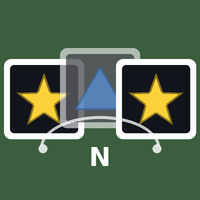
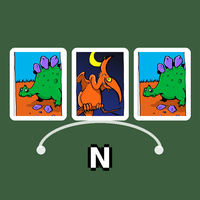
wip dino n back

diff --git a/dinoback/docs/make_thumbnail.py b/dinoback/docs/make_thumbnail.py
@@ -1,113 +1,97 @@
 #!/usr/bin/env python3
 """Generates dinoback/art/game_screen_200.png, the game-chooser tile.
 
-Draws three cards in a row — the middle one dimmed and the outer two matching — which is the
-whole game in one picture: "is this the same as the one N back". Shapes, colors and the zig-ish
-card frame mirror symbol_art.gd so the tile looks like the thing it links to.
+Three cards in a row: the OUTER TWO ARE THE SAME DINO, the middle one a different dino.
+That is the whole game in one picture — "is this the same as the card N back" — and it uses the
+real photographs from res://art/dinos, since the game is called Dino N-Back.
+
+The two dinos are chosen by index below (any 1..48); the script prints which files it used.
 
 Run from the repo root:  python3 dinoback/docs/make_thumbnail.py
 """
-from PIL import Image, ImageDraw
-import math
+from PIL import Image, ImageDraw, ImageFont
 import os
+
+HERE = os.path.dirname(os.path.abspath(__file__))
+ROOT = os.path.normpath(os.path.join(HERE, "..", ".."))
+DINOS = os.path.join(ROOT, "art", "dinos")
+
+DINO_A = 5      # the repeated card (left and right)
+DINO_B = 9      # the odd one in the middle
 
 S = 200
 SS = 4                       # supersample, then downscale, for smooth edges
 W = S * SS
 BG = (60, 93, 62)            # 0x3C5D3E, main.gd's clear color
-PLATE = (18, 20, 28)         # symbol_art.gd PLATE
-FRAME = (255, 255, 255)
+FRAME = (255, 255, 255)      # dino cards carry the WHITE frame in game; drawn cards get yellow
 
-# symbol_art.gd COLORS, most distinct first
-BLUE = (89, 158, 250)
-YELLOW = (252, 209, 56)
-RED = (240, 82, 74)
+CARD_W = int(W * 0.285)
+CARD_H = int(CARD_W * 1.28)
+CY = int(W * 0.42)
+INSET = max(2, int(CARD_W * 0.075))
 
 img = Image.new("RGB", (W, W), BG)
 d = ImageDraw.Draw(img, "RGBA")
 
 
-def ngon(cx, cy, r, sides, rot=-math.pi / 2):
-    return [(cx + math.cos(rot + 2 * math.pi * i / sides) * r,
-             cy + math.sin(rot + 2 * math.pi * i / sides) * r) for i in range(sides)]
+def load_dino(n):
+    path = os.path.join(DINOS, "dino%d.jpg" % n)
+    if not os.path.exists(path):
+        raise SystemExit("no such image: %s" % path)
+    return path, Image.open(path).convert("RGB")
 
 
-def star(cx, cy, r_out, r_in):
-    pts = []
-    for i in range(10):
-        a = -math.pi / 2 + math.pi * i / 5
-        rr = r_out if i % 2 == 0 else r_in
-        pts.append((cx + math.cos(a) * rr, cy + math.sin(a) * rr))
-    return pts
+def cover(im, w, h):
+    """Scale-and-crop to exactly w x h, keeping the centre — the same read as the game's card."""
+    sw, sh = im.size
+    k = max(w / sw, h / sh)
+    im = im.resize((max(1, int(sw * k)), max(1, int(sh * k))), Image.LANCZOS)
+    left = (im.size[0] - w) // 2
+    top = (im.size[1] - h) // 2
+    return im.crop((left, top, left + w, top + h))
 
 
-def centered(pts, cx, cy):
-    """Center a polygon's BOUNDING BOX, as symbol_art.gd does. Building a point-up triangle or
-    star around its circumcenter leaves it sitting visibly high: the apex reaches a full radius
-    up, the base only half a radius down."""
-    xs = [p[0] for p in pts]
-    ys = [p[1] for p in pts]
-    dx = cx - (min(xs) + max(xs)) / 2
-    dy = cy - (min(ys) + max(ys)) / 2
-    return [(x + dx, y + dy) for x, y in pts]
+def card(cx, photo):
+    """One card: white frame, photo cover-cropped inside it. All three are drawn at full
+    strength — the middle one is not dimmed. Dimming it made the tile read as "this card is
+    inactive" rather than "these two are the same one"."""
+    x0, y0 = cx - CARD_W // 2, CY - CARD_H // 2
+    d.rounded_rectangle([x0, y0, x0 + CARD_W, y0 + CARD_H],
+                        radius=int(CARD_W * 0.09), fill=FRAME)
+    iw, ih = CARD_W - INSET * 2, CARD_H - INSET * 2
+    img.paste(cover(photo, iw, ih), (x0 + INSET, y0 + INSET))
 
 
-def card(cx, cy, size, shape, color, alpha=255):
-    """One square card: white frame, dark plate, one big symbol — as the game draws it."""
-    h = size / 2
-    inset = size * 0.075
-    d.rounded_rectangle([cx - h, cy - h, cx + h, cy + h], radius=size * 0.09,
-                        fill=FRAME + (alpha,))
-    d.rounded_rectangle([cx - h + inset, cy - h + inset, cx + h - inset, cy + h - inset],
-                        radius=size * 0.05, fill=PLATE + (alpha,))
-    r = size * 0.32
-    col = color + (alpha,)
-    edge = tuple(int(c * 0.55) for c in color) + (alpha,)
-    lw = max(1, int(r * 0.07))
-    if shape == "circle":
-        d.ellipse([cx - r, cy - r, cx + r, cy + r], fill=col, outline=edge, width=lw)
-    elif shape == "square":
-        q = r * 0.80
-        d.rectangle([cx - q, cy - q, cx + q, cy + q], fill=col, outline=edge, width=lw)
-    elif shape == "triangle":
-        d.polygon(centered(ngon(cx, cy, r * 1.14, 3), cx, cy), fill=col, outline=edge, width=lw)
-    elif shape == "star":
-        d.polygon(centered(star(cx, cy, r * 1.12, r * 0.46), cx, cy), fill=col, outline=edge, width=lw)
+path_a, dino_a = load_dino(DINO_A)
+path_b, dino_b = load_dino(DINO_B)
 
+card(int(W * 0.19), dino_a)
+card(int(W * 0.50), dino_b)
+card(int(W * 0.81), dino_a)
 
-# Three cards on a slight arc. The outer two are the SAME card (shape and color) with a different
-# one between them: a 2-back match, which is what the game asks about.
-CY = W * 0.46
-SIZE = W * 0.40
-card(W * 0.22, CY + W * 0.035, SIZE, "star", YELLOW)
-card(W * 0.50, CY - W * 0.020, SIZE, "triangle", BLUE, alpha=150)
-card(W * 0.78, CY + W * 0.035, SIZE, "star", YELLOW)
+# The link between the two matching cards: an arc with a dot at each end, and the N it turns on.
+ARC_Y = int(W * 0.80)
+d.arc([W * 0.19, ARC_Y - W * 0.20, W * 0.81, ARC_Y + W * 0.10], start=185, end=355,
+      fill=(255, 255, 255, 200), width=int(W * 0.016))
+for x in (W * 0.205, W * 0.795):
+    d.ellipse([x - W * 0.022, ARC_Y - W * 0.072, x + W * 0.022, ARC_Y - W * 0.028],
+              fill=(255, 255, 255, 220))
 
-# the link between the two matching cards, drawn as an arc with arrowheads
-ARC_Y = W * 0.80
-d.arc([W * 0.20, ARC_Y - W * 0.22, W * 0.80, ARC_Y + W * 0.10], start=185, end=355,
-      fill=(255, 255, 255, 190), width=int(W * 0.016))
-for x in (W * 0.215, W * 0.785):
-    d.ellipse([x - W * 0.022, ARC_Y - W * 0.078, x + W * 0.022, ARC_Y - W * 0.034],
-              fill=(255, 255, 255, 210))
+f = None
+for p in ("/usr/share/fonts/truetype/dejavu/DejaVuSans-Bold.ttf",
+          "/usr/share/fonts/TTF/DejaVuSans-Bold.ttf"):
+    if os.path.exists(p):
+        f = ImageFont.truetype(p, int(W * 0.14))
+        break
+if f is not None:
+    # a dark halo so the N holds up over whatever the sky colour is
+    for ox, oy in ((-3, 0), (3, 0), (0, -3), (0, 3)):
+        d.text((W * 0.50 + ox * SS, ARC_Y - W * 0.01 + oy * SS), "N", font=f,
+               fill=(0, 0, 0, 190), anchor="mm")
+    d.text((W * 0.50, ARC_Y - W * 0.01), "N", font=f, fill=(255, 255, 255, 240), anchor="mm")
 
-# "N" tucked into the arc, the one parameter the whole game turns on
-try:
-    from PIL import ImageFont
-    f = None
-    for p in ("/usr/share/fonts/truetype/dejavu/DejaVuSans-Bold.ttf",
-              "/usr/share/fonts/TTF/DejaVuSans-Bold.ttf"):
-        if os.path.exists(p):
-            f = ImageFont.truetype(p, int(W * 0.13))
-            break
-    if f is not None:
-        d.text((W * 0.50, ARC_Y - W * 0.015), "N", font=f, fill=(255, 255, 255, 235),
-               anchor="mm")
-except Exception:
-    pass
-
-out = os.path.join(os.path.dirname(__file__), "..", "art", "game_screen_200.png")
-out = os.path.normpath(out)
+out = os.path.normpath(os.path.join(HERE, "..", "art", "game_screen_200.png"))
 os.makedirs(os.path.dirname(out), exist_ok=True)
 img.resize((S, S), Image.LANCZOS).save(out)
+print("used %s (repeated) and %s (middle)" % (os.path.basename(path_a), os.path.basename(path_b)))
 print("wrote", out)

diff --git a/dinoback/docs/design.md b/dinoback/docs/design.md
@@ -28,7 +28,7 @@ dinoback/
 │   ├── level.gd         # pool, sequence generation, phases, swipe/buttons, scoring
 │   └── main.gd          # orchestrator: menu, HUD, help, score/progress wiring
 ├── scenes/{level,main}.tscn      # all UI built in code
-├── art/game_screen_200.png       # chooser tile
+├── art/game_screen_200.png       # chooser tile, built by docs/make_thumbnail.py
 └── docs/{design.md,make_thumbnail.py}
 ```
 
@@ -74,9 +74,18 @@ Configs are corrected rather than trusted.
 ### Difficulty ramp
 
 Shapes first (a filled shape in one color is the least to hold in mind), then color arrives as a
-*distractor* before it becomes the *rule*, then letters and digits, then N grows. **Photographs
-come last**: a dino has no name to rehearse, so a 2-back on dinos bites harder than a 3-back on
-shapes. 17 levels, 1-back → 3-back, ending in an endless 20-minute practice level.
+*distractor* before it becomes the *rule*, then N grows.
+
+**Photographs recur at every N** — 1-back at 4–5, 2-back at 11–12, 3-back at 15–16 and 18–19 —
+rather than only at the end. A dino has no name to rehearse, so it is its own axis of difficulty
+independent of N; meeting it first at N=1, where the task itself is already understood, isolates
+that one new thing instead of stacking it on a bigger N.
+
+19 levels, 1-back → 3-back, ending in an endless 20-minute practice level.
+
+**Ids are the play order.** `new_game` advances with `current_level_id + 1`, so ids must stay
+sequential and match the array order — inserting a level means renumbering everything after it,
+which also re-labels any already-saved score rows (they store the level id).
 
 ## The sequence generator
 
@@ -127,12 +136,25 @@ did not mean what it documented. With the explicit split it measures 0.41–0.44
   radius down, so it sat visibly high in the card; a 5-point star and a pentagon are off by ~0.1
   radius the same way. Symmetric shapes (square, plus, hexagon) are unaffected, so it runs for all
   of them rather than special-casing. Measured centering error after the fix: 0.00 px on all six
-  polygon shapes. `docs/make_thumbnail.py` does the same thing for the chooser tile.
+  polygon shapes.
 - **No diamond** — a rotated square is not a distinct shape (project rule).
 - **Frame color**: white is reserved for dino photos (as in Dino); people and all three drawn
   categories get the yellow zigzag. On a drawn face — a dark plate with one bright symbol — a white
   frame reads as a second bright element competing with it. The frame never encodes the card's own
   color, or the color rule would be readable off the frame instead of the symbol.
+
+## Chooser tile
+
+`docs/make_thumbnail.py` (PIL, run by hand) composites `art/game_screen_200.png` from the **real
+dino photographs** in `res://art/dinos` — the game is called Dino N-Back, so the tile should not be
+abstract shapes. Three cards in a row, white-framed as dino cards are in game, all at full
+strength: **the outer two are the same dino**, the middle a different one; below them an arc
+joining the matching pair, with the `N` it all turns on. That is the whole game in one picture.
+The middle card is deliberately *not* dimmed — that read as "this card is inactive" rather than
+"these two are the same one".
+
+`DINO_A` / `DINO_B` at the top pick the photos by index (1..48) — currently dino5 (repeated) and
+dino9 (middle); the script prints which files it used.
 
 ## Scoring
 
@@ -201,7 +223,7 @@ names the symbol dimension the way this level's categories make sense (`SHAPE` /
 
 No CLI test pipeline. Everything below was checked with temporary headless probes (since deleted):
 
-- **Generator, 6000 trials per level × all 17 levels.** Every trial's scored label agrees with the
+- **Generator, 6000 trials per level × all 19 levels.** Every trial's scored label agrees with the
   rule; no trial out of pool/color range; target rate 0.29–0.32 against 0.30; lures present above
   half the configured rate; `rule: both` partials 0.41–0.44 against 0.40.
 - **The distractor does not leak the answer** — the key property. P(distractor also matches) is
